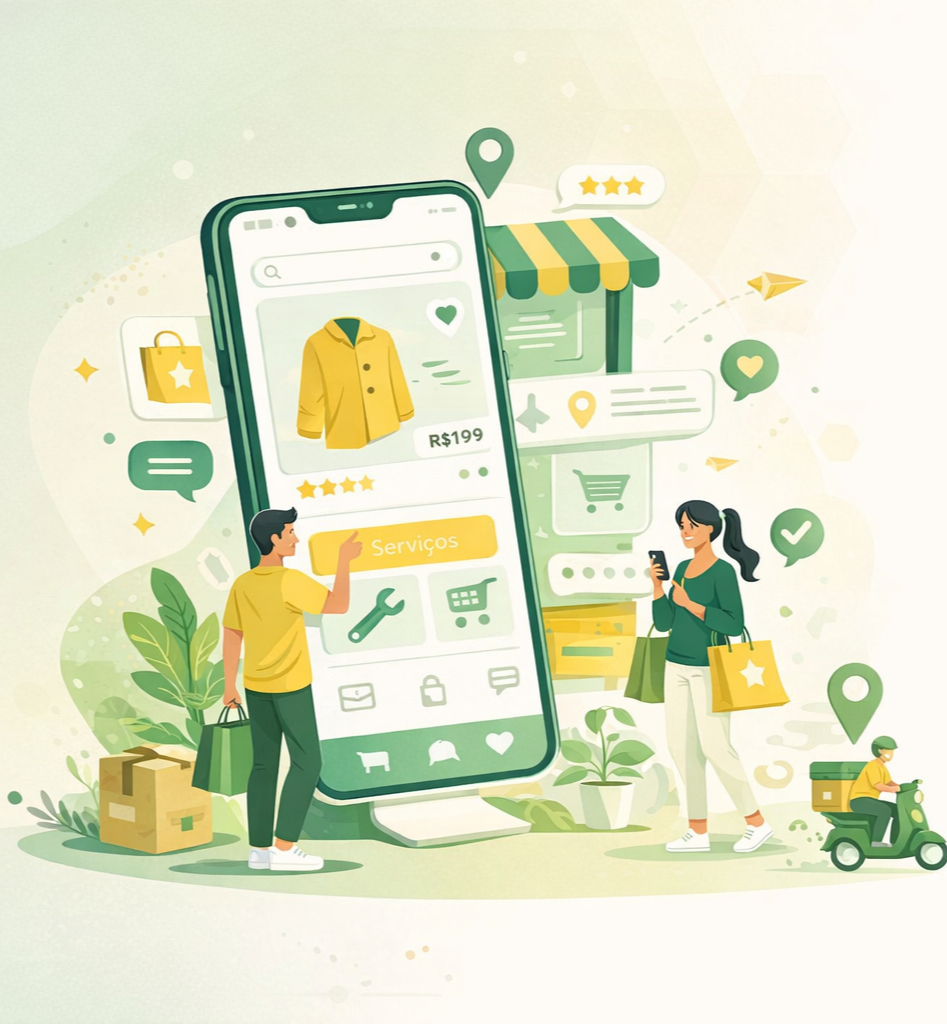
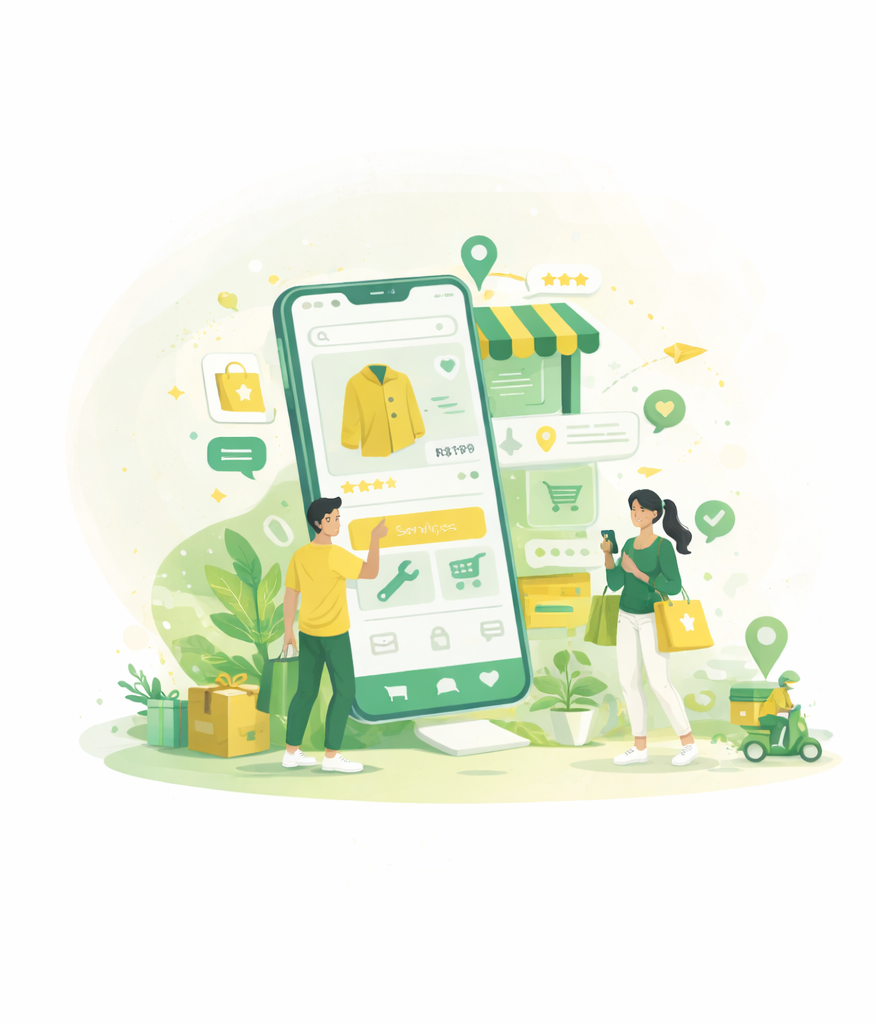
tentando melhorar o background do login e criar conta.

diff --git a/public/criarcont.html b/public/criarcont.html
@@ -48,7 +48,7 @@
 
     <!-- LADO ESQUERDO -->
     <div class="cadastro-left">
-      <img src="img/criarcont-ilustracao.png" alt="Criar conta Jobee">
+      <img src="img/imagemcriarconta.png" alt="Criar conta Jobee">
     </div>
 
     <!-- LADO DIREITO -->
